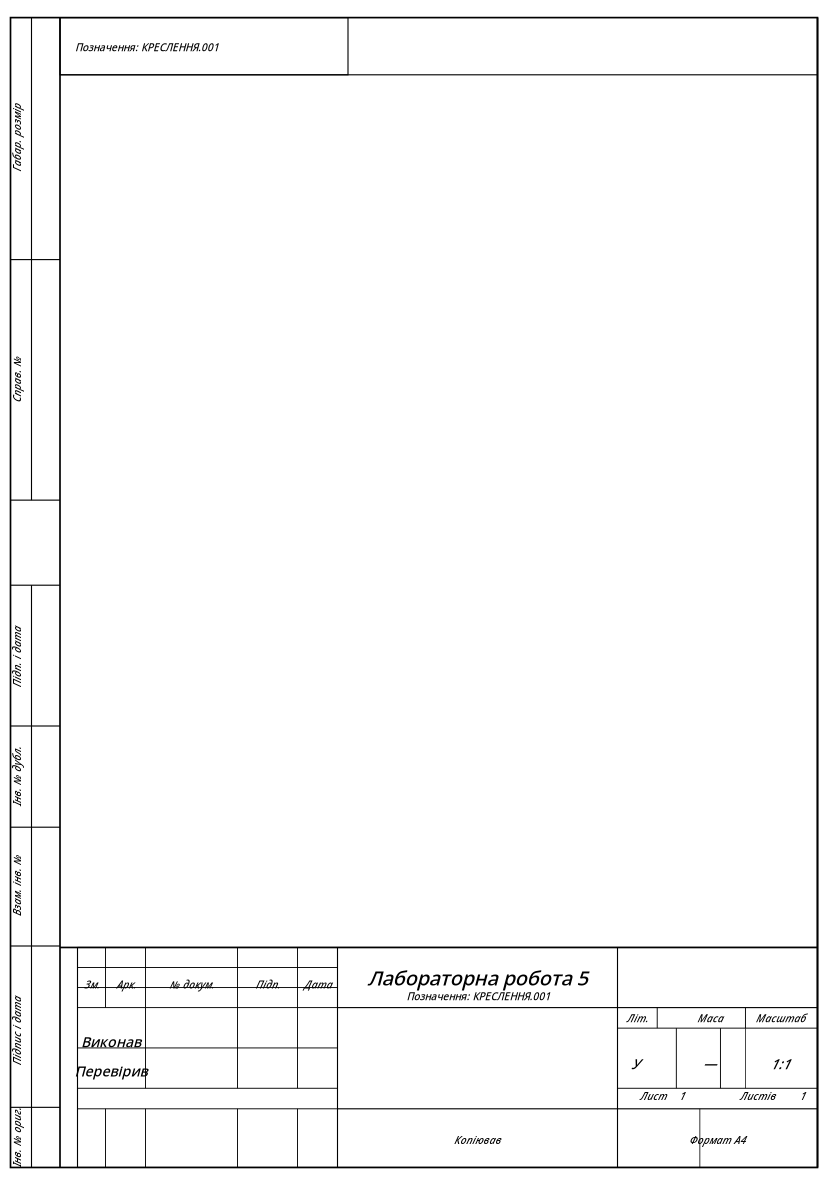
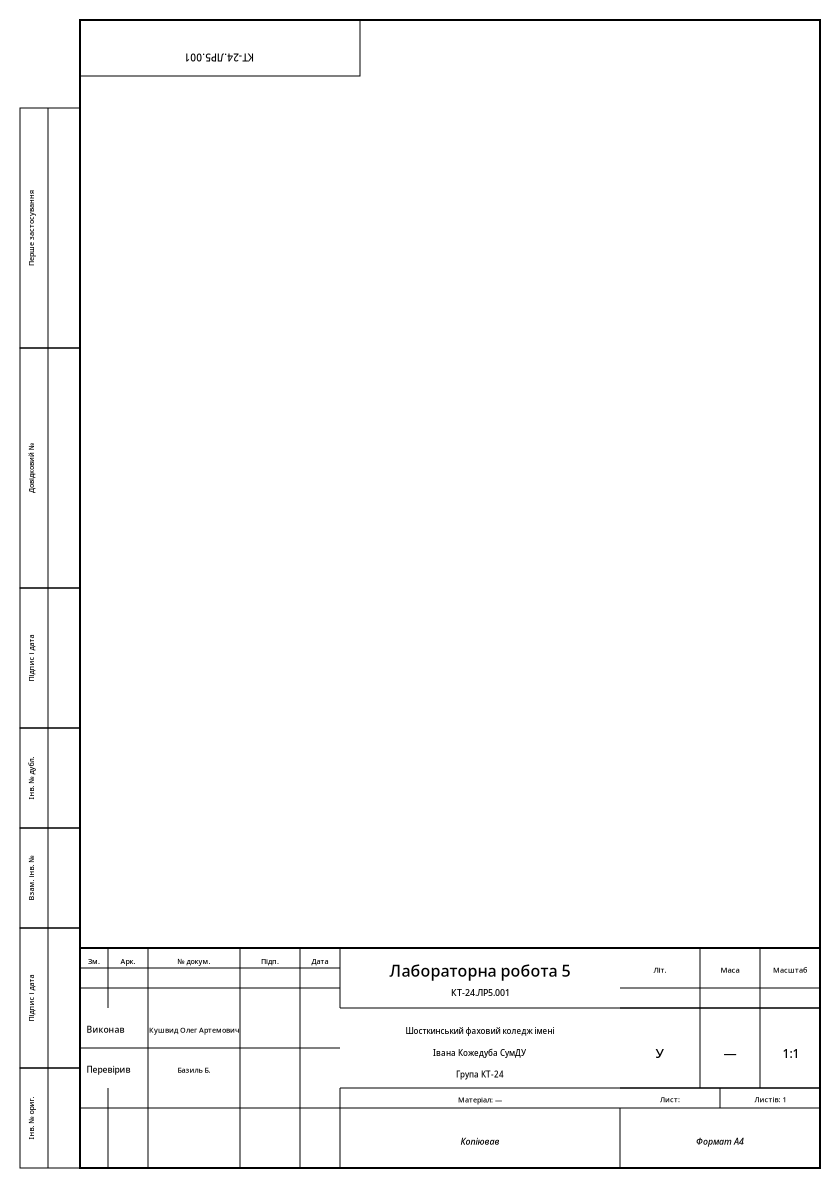
1
1

Changed region(s): [[0.0, 0.0, 0.9905, 0.9966]]

diff --git a/js/app.js b/js/app.js
@@ -13,7 +13,7 @@
     objectSnap:true, ortho:false, template:true, space:false, pan:null, viewPan:{x:0,y:0}, drag:null, selectionRect:null,
     history:[], redo:[], clipboard:[], ruler:null, rulerMode:'off', rulerVisible:true, freehandDraft:null, resize:null, rotateDrag:null,
     gost:{profile:'dstu-gost-ua',mainLine:.5,thinLine:.25,textHeight:5,textDefaultsVersion:2,arrowLength:3.5,dimensionArrowVersion:2,precision:1,lettering:'B-S',fontFamily:'GOST type B,Arial,sans-serif'},
-    title:{title:'Лабораторна робота 5',code:'КРЕСЛЕННЯ.001',material:'Матеріал не зазначено',scale:'1:1',sheet:'1',sheets:'1',company:'Навчальний кресленик',liter:'У',mass:'—',developer:'',checker:'',technical:'',normative:'',approved:''},
+    title:{title:'Лабораторна робота 5',code:'КТ-24.ЛР5.001',material:'—',scale:'1:1',sheet:'',sheets:'1',company:'Шосткинський фаховий коледж імені Івана Кожедуба СумДУ',group:'КТ-24',liter:'У',mass:'—',developer:'Кушвид Олег Артемович',checker:'Базиль Б.',technical:'',normative:'',approved:''},
     titleForm:'lab5-template', projectId:null, fileName:'Кресленик_1', dirty:false, assignmentDimensions:''
   };
   const visible = {geometry:true,dimensions:true,construction:true,template:true,reference:true};
@@ -45,13 +45,14 @@
   function resetViewPan(){state.viewPan={x:0,y:0};updateZoom();}
   function templateData(){ return state.title; }
   function renderTemplate(){
+    if(state.titleForm==='lab5-template'&&state.format!=='A4P'){state.format='A4P';if($('paperFormat'))$('paperFormat').value='A4P';}
     const d=dimensions(); svg.setAttribute('viewBox',`0 0 ${d.w} ${d.h}`);
     $('paperRect').setAttribute('width',d.w); $('paperRect').setAttribute('height',d.h);
     $('gridRect').setAttribute('width',d.w); $('gridRect').setAttribute('height',d.h);
     window.KompasTemplate.render(templateLayer,state.format,templateData(),state.titleForm||'user-template');
     if($('titleFormSelect'))$('titleFormSelect').value=state.titleForm||'user-template';
     if($('templateQuickSelect'))$('templateQuickSelect').value=state.titleForm||'user-template';
-    const templateDescriptions={'lab5-template':'Шаблон за фото лабораторної роботи №5: книжковий A4, ліві архівні поля, верхня комірка та нижній штамп. Центральне поле повністю порожнє — без моделі, розмірів і штриховки.','user-template':'Ваш початковий шаблон: бокові службові графи, верхня комірка й нижній основний напис.','gost-form1':'Форма 1 — перший аркуш графічного документа (креслення або схема).','form2':'Форма 2 — перший аркуш текстового конструкторського документа.','form2a':'Форма 2а — наступні аркуші графічних і текстових документів.','form2b-odd':'Форма 2б для текстового документа з додатковими графами ліворуч; варіант компонування для двостороннього копіювання.','form2b-even':'Форма 2б для текстового документа з додатковими графами праворуч; дзеркальний варіант компонування для двостороннього копіювання.','spec-form1':'Навчальна форма специфікації за традиційною ЄСКД / ГОСТ 2.106-96: перший аркуш із групами документації, деталей, стандартних виробів та матеріалів.','spec-form1a':'Навчальна форма специфікації за традиційною ЄСКД / ГОСТ 2.106-96: продовження таблиці на наступному аркуші.','blank':'Чистий аркуш зі стандартною рамкою без основного напису.'};
+    const templateDescriptions={'lab5-template':'Виправлений шаблон A4, книжкова орієнтація: рамка 20/5/5/5 мм, додаткова графа 70×14 мм, основний напис 185×55 мм. Поле деталі залишено порожнім.','user-template':'Ваш початковий шаблон: бокові службові графи, верхня комірка й нижній основний напис.','gost-form1':'Форма 1 — перший аркуш графічного документа (креслення або схема).','form2':'Форма 2 — перший аркуш текстового конструкторського документа.','form2a':'Форма 2а — наступні аркуші графічних і текстових документів.','form2b-odd':'Форма 2б для текстового документа з додатковими графами ліворуч; варіант компонування для двостороннього копіювання.','form2b-even':'Форма 2б для текстового документа з додатковими графами праворуч; дзеркальний варіант компонування для двостороннього копіювання.','spec-form1':'Навчальна форма специфікації за традиційною ЄСКД / ГОСТ 2.106-96: перший аркуш із групами документації, деталей, стандартних виробів та матеріалів.','spec-form1a':'Навчальна форма специфікації за традиційною ЄСКД / ГОСТ 2.106-96: продовження таблиці на наступному аркуші.','blank':'Чистий аркуш зі стандартною рамкою без основного напису.'};
     if($('templateDescription'))$('templateDescription').textContent=(state.titleForm==='user-template'&&d.h<280)?'На форматі A5 ваш розширений шаблон не вміщується; застосовано компактний варіант форми 1.':(templateDescriptions[state.titleForm]||templateDescriptions['user-template']);
     templateLayer.style.display=(state.template&&visible.template)?'':'none';
     renderSheetFrame(d);
@@ -1285,27 +1286,30 @@
       else if(o.type==='ellipse'){const pts=Array.from({length:64},(_,i)=>({x:(o.x+o.x2)/2+Math.cos(i*Math.PI/32)*Math.abs(o.x2-o.x)/2,y:(o.y+o.y2)/2+Math.sin(i*Math.PI/32)*Math.abs(o.y2-o.y)/2}));emitPath(pts,true,o.width);}
     });parts.push('SP0;');downloadBlob(new Blob([parts.join('')],{type:'application/vnd.hp-hpgl'}),`${state.fileName||'drawing'}.plt`);setMessage('HPGL/PLT экспортирован. Текст, размеры и штриховка в плоттерный файл не включены — экспортируются геометрические контуры.');
   }
-  function syncTitleInputs(){const t=state.title;$('titleField').value=t.title||'';$('codeField').value=t.code||'';$('materialField').value=t.material||'';$('scaleField').value=t.scale||'1:1';$('sheetField').value=t.sheet||'1';$('sheetsField').value=t.sheets||'1';$('companyField').value=t.company||'';$('literField').value=t.liter||'У';$('massField').value=t.mass||'—';$('developerField').value=t.developer||'';$('checkerField').value=t.checker||'';$('technicalField').value=t.technical||'';$('normativeField').value=t.normative||'';$('approvedField').value=t.approved||'';$('filenameField').value=state.fileName||'Кресленик_1';if($('titleFormSelect'))$('titleFormSelect').value=state.titleForm||'form1';}
-  function readTitleValues(){return{title:$('titleField').value,code:$('codeField').value,material:$('materialField').value,scale:$('scaleField').value,sheet:$('sheetField').value,sheets:$('sheetsField').value,company:$('companyField').value,liter:$('literField').value,mass:$('massField').value,developer:$('developerField').value,checker:$('checkerField').value,technical:$('technicalField').value,normative:$('normativeField').value,approved:$('approvedField').value};}
+  function syncTitleInputs(){const t=state.title;$('titleField').value=t.title||'';$('codeField').value=t.code||'';$('materialField').value=t.material||'';$('scaleField').value=t.scale||'1:1';$('sheetField').value=t.sheet??'';$('sheetsField').value=t.sheets||'1';$('companyField').value=t.company||'';$('groupField').value=t.group||'';$('literField').value=t.liter||'У';$('massField').value=t.mass||'—';$('developerField').value=t.developer||'';$('checkerField').value=t.checker||'';$('technicalField').value=t.technical||'';$('normativeField').value=t.normative||'';$('approvedField').value=t.approved||'';$('filenameField').value=state.fileName||'Кресленик_1';if($('titleFormSelect'))$('titleFormSelect').value=state.titleForm||'form1';}
+  function readTitleValues(){return{title:$('titleField').value,code:$('codeField').value,material:$('materialField').value,scale:$('scaleField').value,sheet:$('sheetField').value,sheets:$('sheetsField').value,company:$('companyField').value,group:$('groupField').value,liter:$('literField').value,mass:$('massField').value,developer:$('developerField').value,checker:$('checkerField').value,technical:$('technicalField').value,normative:$('normativeField').value,approved:$('approvedField').value};}
   function applyTitle(){commit();state.title=readTitleValues();state.fileName=$('filenameField').value.trim()||'Кресленик_1';renderTemplate();renderAll();setMessage('Основний напис оновлено');}
-  function setFormat(fmt){commit();state.format=fmt;renderTemplate();setZoom(Math.min(state.zoom,2.5));$('paperFormat').value=fmt;setMessage(`Формат листа: ${fmt}`);}
+  function setFormat(fmt){if(state.titleForm==='lab5-template'&&fmt!=='A4P'){$('paperFormat').value='A4P';setMessage('Шаблон лабораторної №5 закріплено за книжковим А4 (210×297 мм). Для іншого формату виберіть інший шаблон.');return;}commit();state.format=fmt;renderTemplate();setZoom(Math.min(state.zoom,2.5));$('paperFormat').value=fmt;setMessage(`Формат листа: ${fmt}`);}
   function fillNewDocumentChoices(){
     $('newDocFormat').innerHTML=$('paperFormat').innerHTML;$('newDocTemplate').innerHTML=$('titleFormSelect').innerHTML;
     $('newDocFormat').value=state.format||'A4P';$('newDocTemplate').value=state.titleForm||'user-template';$('newDocName').value=state.fileName||'Кресленик_1';$('newDocProfile').value=state.gost.profile==='eskd-study'?'eskd-study':'dstu-gost-ua';
     const match=String($('newDocFormat').value).match(/(P|L)$/);$('newDocOrientation').value=match?match[1]:'P';updateNewDocumentPreview();
   }
   function updateNewDocumentPreview(){
-    const fmt=$('newDocFormat').value||'A4P',template=$('newDocTemplate').value||'user-template',d=window.KompasTemplate.dimensions(fmt),v=$('newDocPreview');
+    let fmt=$('newDocFormat').value||'A4P';const template=$('newDocTemplate').value||'user-template';
+    const portraitOnly=template==='lab5-template';$('newDocFormat').disabled=portraitOnly;$('newDocOrientation').disabled=portraitOnly;
+    if(portraitOnly){fmt='A4P';$('newDocFormat').value='A4P';$('newDocOrientation').value='P';}
+    const d=window.KompasTemplate.dimensions(fmt),v=$('newDocPreview');
     v.setAttribute('viewBox',`0 0 ${d.w} ${d.h}`);v.innerHTML='';const bg=svgEl('rect',{x:0,y:0,width:d.w,height:d.h,fill:'#fff'});v.appendChild(bg);
     window.KompasTemplate.render(v,fmt,state.title,template);
-    const desc={'lab5-template':'Чистый шаблон лабораторной работы №5 по вашему фото. Большое центральное поле пустое, без модели.','user-template':'Ваш собственный шаблон із боковыми служебными графами и расширенной основной надписью.','gost-form1':'Форма 1 — первый лист графического документа.','form2':'Форма 2 — первый лист текстового документа.','form2a':'Форма 2а — следующий лист.','form2b-odd':'Форма 2б — дополнительные графы слева.','form2b-even':'Форма 2б — дополнительные графы справа.','spec-form1':'Спецификация — первый лист.','spec-form1a':'Спецификация — последующие листы.','blank':'Чистая рамка без штампа.'};$('newDocTemplateHint').textContent=desc[template]||'';
+    const desc={'lab5-template':'Исправленный книжный А4: рамка 20/5/5/5 мм, дополнительная графа 70×14 мм, штамп 185×55 мм. Поле детали оставлено пустым.','user-template':'Ваш собственный шаблон із боковыми служебными графами и расширенной основной надписью.','gost-form1':'Форма 1 — первый лист графического документа.','form2':'Форма 2 — первый лист текстового документа.','form2a':'Форма 2а — следующий лист.','form2b-odd':'Форма 2б — дополнительные графы слева.','form2b-even':'Форма 2б — дополнительные графы справа.','spec-form1':'Спецификация — первый лист.','spec-form1a':'Спецификация — последующие листы.','blank':'Чистая рамка без штампа.'};$('newDocTemplateHint').textContent=desc[template]||'';
   }
   function newDocument(){fillNewDocumentChoices();$('newDocModal').classList.remove('hidden');}
   function createNewDocument(){
     if((state.objects.length||state.dirty)&&!confirm('Создать новый чертёж? Несохранённые изменения будут потеряны.'))return;
     const fmt=$('newDocFormat').value||'A4P',template=$('newDocTemplate').value||'user-template',name=$('newDocName').value.trim()||'Кресленик_1',profile=$('newDocProfile').value;
     state.objects=[];state.selectedIds=[];state.assignmentDimensions='';$('assignmentDimensions').value='';state.ruler=null;state.rulerMode='off';state.rulerVisible=true;state.viewPan={x:0,y:0};state.projectId=null;state.titleForm=template;$('rulerMode').value='off';$('rulerVisible').checked=true;state.format=fmt;state.fileName=name;$('paperFormat').value=fmt;$('titleFormSelect').value=template;$('templateQuickSelect').value=template;$('filenameField').value=name;
-    state.title={title:template==='lab5-template'?'Лабораторна робота 5':'Найменування деталі',code:'КРЕСЛЕННЯ.001',material:'Матеріал не зазначено',scale:'1:1',sheet:'1',sheets:'1',company:'Навчальний кресленик',liter:'У',mass:'—',developer:'',checker:'',technical:'',normative:'',approved:''};
+    state.title={title:template==='lab5-template'?'Лабораторна робота 5':'Найменування деталі',code:template==='lab5-template'?'КТ-24.ЛР5.001':'КРЕСЛЕННЯ.001',material:'—',scale:'1:1',sheet:'',sheets:'1',company:'Шосткинський фаховий коледж імені Івана Кожедуба СумДУ',group:'КТ-24',liter:'У',mass:'—',developer:'Кушвид Олег Артемович',checker:'Базиль Б.',technical:'',normative:'',approved:''};
     state.gost={profile,mainLine:.5,thinLine:.25,textHeight:5,textDefaultsVersion:2,arrowLength:3.5,dimensionArrowVersion:2,precision:1,lettering:'B-S',fontFamily:'GOST type B,Arial,sans-serif'};applyGostControls();
     state.history=[];state.redo=[];updateHistoryButtons();state.grid=$('newDocGrid').checked;$('gridToggle').checked=state.grid;const gp=svg.querySelector('#gridPattern');if(gp){const step=gridStep();gp.setAttribute('width',step);gp.setAttribute('height',step);gp.querySelector('path').setAttribute('d',`M ${step} 0 L 0 0 0 ${step}`);}$('gridRect').setAttribute('visibility',state.grid?'visible':'hidden');
     syncTitleInputs();renderTemplate();renderAll();state.dirty=false;$('saveState').textContent='Новий кресленик';$('newDocModal').classList.add('hidden');resetViewPan();const d=dimensions(),aw=drawingArea.clientWidth-90,ah=drawingArea.clientHeight-90;setZoom(clamp(Math.min(aw/d.w,ah/d.h),.25,6));setMessage(`Створено ${name}: ${fmt} · ${template}`);
@@ -1328,7 +1332,7 @@
   function pasteClipboard(){if(!state.clipboard.length){setMessage('Буфер обмена пуст');return;}commit();const clones=state.clipboard.map(o=>({...deep(o),id:newId()}));clones.forEach(o=>translateObject(o,5,5));state.objects.push(...clones);state.selectedIds=clones.map(o=>o.id);renderAll();setMessage(`Вставлено объектов: ${clones.length}`);}
   document.querySelectorAll('[data-tool]').forEach(b=>b.addEventListener('click',()=>selectTool(b.dataset.tool)));
   document.querySelectorAll('[data-action]').forEach(b=>b.addEventListener('click',()=>applyAction(b.dataset.action)));
-  $('newBtn').addEventListener('click',newDocument);$('createNewDocBtn').addEventListener('click',createNewDocument);$('closeNewDocModal').addEventListener('click',()=>$('newDocModal').classList.add('hidden'));$('cancelNewDocBtn').addEventListener('click',()=>$('newDocModal').classList.add('hidden'));$('newDocModal').addEventListener('click',e=>{if(e.target===$('newDocModal'))$('newDocModal').classList.add('hidden');});$('newDocTemplate').addEventListener('change',updateNewDocumentPreview);$('newDocFormat').addEventListener('change',()=>{const v=$('newDocFormat').value,m=v.match(/(P|L)$/);if(m)$('newDocOrientation').value=m[1];updateNewDocumentPreview();});$('newDocOrientation').addEventListener('change',()=>{const v=$('newDocFormat').value;if(/^(A[0-5])[PL]$/.test(v)){const base=v.slice(0,2);$('newDocFormat').value=base+$('newDocOrientation').value;updateNewDocumentPreview();}});$('coordinateApplyBtn').addEventListener('click',applyNumericCoordinate);$('restoreAutosaveBtn').addEventListener('click',restoreAutosave);$('saveBtn').addEventListener('click',()=>saveProject());$('saveToLibraryBtn').addEventListener('click',()=>saveProject());$('saveAsLibraryBtn').addEventListener('click',()=>saveProject({saveAs:true}));$('saveJsonBtn').addEventListener('click',()=>exportProjectJson());$('openBtn').addEventListener('click',openProjectLibrary);$('openLibraryBtn').addEventListener('click',openProjectLibrary);$('loadJsonBtn').addEventListener('click',()=>$('fileInput').click());$('importJsonFromLibraryBtn').addEventListener('click',()=>$('fileInput').click());$('fileInput').addEventListener('change',e=>{if(e.target.files[0])loadProject(e.target.files[0]);e.target.value='';});$('closeFilesModal').addEventListener('click',()=>$('filesModal').classList.add('hidden'));$('filesModal').addEventListener('click',e=>{if(e.target===$('filesModal'))$('filesModal').classList.add('hidden');});$('fileSearch').addEventListener('input',renderProjectLibrary);$('newFromLibraryBtn').addEventListener('click',()=>{$('filesModal').classList.add('hidden');newDocument();});function changeTitleTemplate(value){if(!value)return;commit();state.titleForm=value;renderTemplate();setMessage('Шаблон аркуша змінено; геометрію креслення збережено');}
+  $('newBtn').addEventListener('click',newDocument);$('createNewDocBtn').addEventListener('click',createNewDocument);$('closeNewDocModal').addEventListener('click',()=>$('newDocModal').classList.add('hidden'));$('cancelNewDocBtn').addEventListener('click',()=>$('newDocModal').classList.add('hidden'));$('newDocModal').addEventListener('click',e=>{if(e.target===$('newDocModal'))$('newDocModal').classList.add('hidden');});$('newDocTemplate').addEventListener('change',updateNewDocumentPreview);$('newDocFormat').addEventListener('change',()=>{const v=$('newDocFormat').value,m=v.match(/(P|L)$/);if(m)$('newDocOrientation').value=m[1];updateNewDocumentPreview();});$('newDocOrientation').addEventListener('change',()=>{const v=$('newDocFormat').value;if(/^(A[0-5])[PL]$/.test(v)){const base=v.slice(0,2);$('newDocFormat').value=base+$('newDocOrientation').value;updateNewDocumentPreview();}});$('coordinateApplyBtn').addEventListener('click',applyNumericCoordinate);$('restoreAutosaveBtn').addEventListener('click',restoreAutosave);$('saveBtn').addEventListener('click',()=>saveProject());$('saveToLibraryBtn').addEventListener('click',()=>saveProject());$('saveAsLibraryBtn').addEventListener('click',()=>saveProject({saveAs:true}));$('saveJsonBtn').addEventListener('click',()=>exportProjectJson());$('openBtn').addEventListener('click',openProjectLibrary);$('openLibraryBtn').addEventListener('click',openProjectLibrary);$('loadJsonBtn').addEventListener('click',()=>$('fileInput').click());$('importJsonFromLibraryBtn').addEventListener('click',()=>$('fileInput').click());$('fileInput').addEventListener('change',e=>{if(e.target.files[0])loadProject(e.target.files[0]);e.target.value='';});$('closeFilesModal').addEventListener('click',()=>$('filesModal').classList.add('hidden'));$('filesModal').addEventListener('click',e=>{if(e.target===$('filesModal'))$('filesModal').classList.add('hidden');});$('fileSearch').addEventListener('input',renderProjectLibrary);$('newFromLibraryBtn').addEventListener('click',()=>{$('filesModal').classList.add('hidden');newDocument();});function changeTitleTemplate(value){if(!value)return;commit();state.titleForm=value;if(value==='lab5-template'&&state.format!=='A4P'){state.format='A4P';$('paperFormat').value='A4P';setZoom(Math.min(state.zoom,2.5));}renderTemplate();setMessage(value==='lab5-template'?'Застосовано книжковий А4 для лабораторної №5; геометрію креслення збережено':'Шаблон аркуша змінено; геометрію креслення збережено');}
   $('titleFormSelect').addEventListener('change',e=>changeTitleTemplate(e.target.value));
   $('templateQuickSelect').addEventListener('change',e=>changeTitleTemplate(e.target.value));
   $('mirrorAxisMode').addEventListener('change',e=>$('mirrorCustomPoints').classList.toggle('hidden',e.target.value!=='custom'));$('closeMirrorModal').addEventListener('click',closeMirrorDialog);$('cancelMirrorBtn').addEventListener('click',closeMirrorDialog);$('applyMirrorBtn').addEventListener('click',applyMirrorDialog);$('mirrorModal').addEventListener('click',e=>{if(e.target===$('mirrorModal'))closeMirrorDialog();});
@@ -1338,7 +1342,7 @@
   $('gridToggle').addEventListener('change',e=>{state.grid=e.target.checked;$('gridRect').setAttribute('visibility',state.grid?'visible':'hidden');});$('gridStep').addEventListener('change',()=>{const pattern=svg.querySelector('#gridPattern');const step=gridStep();pattern.setAttribute('width',step);pattern.setAttribute('height',step);pattern.querySelector('path').setAttribute('d',`M ${step} 0 L 0 0 0 ${step}`);});$('snapToggle').addEventListener('change',e=>state.snap=e.target.checked);$('objectSnapToggle').addEventListener('change',e=>state.objectSnap=e.target.checked);$('orthoToggle').addEventListener('change',e=>{state.ortho=e.target.checked;$('orthoStatus').textContent=state.ortho?'Вкл.':'Выкл.';});
   $('templateToggle').addEventListener('change',e=>{const before=snapshot();state.template=e.target.checked;commit(before);renderTemplate();});$('geometryVisible').addEventListener('change',e=>{const before=snapshot();visible.geometry=e.target.checked;commit(before);renderAll();});$('dimensionsVisible').addEventListener('change',e=>{const before=snapshot();visible.dimensions=e.target.checked;commit(before);renderAll();});$('constructionVisible').addEventListener('change',e=>{const before=snapshot();visible.construction=e.target.checked;commit(before);renderAll();});$('templateVisible').addEventListener('change',e=>{const before=snapshot();visible.template=e.target.checked;commit(before);renderTemplate();});
   $('paperFormat').addEventListener('change',e=>setFormat(e.target.value));$('fitBtn').addEventListener('click',()=>{resetViewPan();const d=dimensions(),w=drawingArea.clientWidth-70,h=drawingArea.clientHeight-70;setZoom(Math.min(w/d.w,h/d.h));});$('zoomIn').addEventListener('click',()=>setZoom(state.zoom*1.15));$('zoomOut').addEventListener('click',()=>setZoom(state.zoom/1.15));
-  ['titleField','codeField','materialField','scaleField','sheetField','sheetsField','companyField','literField','massField','developerField','checkerField','technicalField','normativeField','approvedField','filenameField'].forEach(id=>$(id).addEventListener('input',()=>{state.dirty=true;$('saveState').textContent='Є незбережені зміни';}));
+  ['titleField','codeField','materialField','scaleField','sheetField','sheetsField','companyField','groupField','literField','massField','developerField','checkerField','technicalField','normativeField','approvedField','filenameField'].forEach(id=>$(id).addEventListener('input',()=>{state.dirty=true;$('saveState').textContent='Є незбережені зміни';}));
   $('applyTitleBtn').addEventListener('click',applyTitle);$('svgBtn').addEventListener('click',exportSvg);$('dxfBtn').addEventListener('click',exportDxf);$('exportDxfBtn').addEventListener('click',exportDxf);$('importDxfBtn').addEventListener('click',()=>$('dxfInput').click());$('dxfInput').addEventListener('change',e=>{if(e.target.files[0])importDxf(e.target.files[0]);e.target.value='';});$('svgInput').addEventListener('change',e=>{if(e.target.files[0])importSvg(e.target.files[0]);e.target.value='';});$('csvInput').addEventListener('change',e=>{if(e.target.files[0])importCsv(e.target.files[0]);e.target.value='';});$('importSvgBtn').addEventListener('click',()=>$('svgInput').click());$('importCsvBtn').addEventListener('click',()=>$('csvInput').click());$('exportCsvBtn').addEventListener('click',exportCsv);$('importHpglBtn').addEventListener('click',()=>$('hpglInput').click());$('hpglInput').addEventListener('change',e=>{if(e.target.files[0])importHpgl(e.target.files[0]);e.target.value='';});$('exportHpglBtn').addEventListener('click',exportHpgl);$('pngBtn').addEventListener('click',exportPng);$('exportJpgBtn').addEventListener('click',exportJpg);$('exportWebpBtn').addEventListener('click',exportWebp);$('exportBmpBtn').addEventListener('click',exportBmp);$('printBtn').addEventListener('click',printDocument);$('printNowBtn').addEventListener('click',doPrintDocument);$('printCalibrationBtn').addEventListener('click',printCalibrationSheet);$('printPreflightBtn').addEventListener('click',()=>{$('printModal').classList.add('hidden');checkGost();});$('closePrintModal').addEventListener('click',()=>$('printModal').classList.add('hidden'));$('printModal').addEventListener('click',e=>{if(e.target===$('printModal'))$('printModal').classList.add('hidden');});$('kompasBridgeBtn').addEventListener('click',()=>$('kompasBridgeModal').classList.remove('hidden'));$('closeKompasBridgeBtn').addEventListener('click',()=>$('kompasBridgeModal').classList.add('hidden'));$('closeBridgeBottomBtn').addEventListener('click',()=>$('kompasBridgeModal').classList.add('hidden'));$('kompasBridgeModal').addEventListener('click',e=>{if(e.target===$('kompasBridgeModal'))$('kompasBridgeModal').classList.add('hidden');});$('bridgeExportDxfBtn').addEventListener('click',()=>{exportDxf();$('kompasBridgeModal').classList.add('hidden');});$('addTextBtn').addEventListener('click',()=>selectTool('text'));
   $('applyObjectGeometryBtn').addEventListener('click',applySelectedGeometry);
   $('objectColor').addEventListener('change',e=>{const o=getSelected()[0];if(o){commit();getSelected().forEach(x=>x.color=e.target.value);renderAll();}});

diff --git a/js/template.js b/js/template.js
@@ -10,7 +10,7 @@
   function txt(x,y,value,size=2.25,anchor='start',rotate=0,opts={}){const h=Math.max(1.8,Number(size)||2.25);const transforms=(rotate||opts.slanted)?`translate(${x} ${y}) ${rotate?`rotate(${rotate}) `:''}${opts.slanted?'skewX(-15) ':''}translate(${-x} ${-y})`:'';const tr=transforms?` transform="${transforms}"`:'';return `<text x="${x}" y="${y}" font-family="${opts.fontFamily||'GOST type B,Arial,sans-serif'}" font-size="${h}" fill="${opts.color||TEXT}" text-anchor="${anchor}"${tr}${opts.weight?' font-weight="'+opts.weight+'"':''}${opts.italic?' font-style="italic"':''}>${esc(value)}</text>`;}
   function cell(x1,x2,y,value,size=1.55){return txt((x1+x2)/2,y,value,size,'middle');}
   function vlabel(x,y1,y2,value,size=1.65){return txt(x,(y1+y2)/2,value,size,'middle',-90);}
-  function addAuxFields(s, yTop=5, yBottom=292) {
+  function addAuxFields(s, yTop=5, yBottom=292, thinWidth=.25) {
     // Additional archival fields in the left 20 mm margin; labels are Ukrainian.
     const x1=5,x2=12,x3=20;
     const bands=[
@@ -22,17 +22,17 @@
       [yBottom-205,yBottom-145,'Довідковий №'],
       [yBottom-265,yBottom-205,'Перше застосування']
     ];
-    bands.forEach(([a,b,label])=>{s+=rect(x1,a,x3-x1,b-a,.20);s+=line(x2,a,x2,b,.18);s+=vlabel((x1+x2)/2,a,b,label,1.55);});
+    bands.forEach(([a,b,label])=>{s+=rect(x1,a,x3-x1,b-a,thinWidth);s+=line(x2,a,x2,b,thinWidth);s+=vlabel((x1+x2)/2,a,b,label,1.55);});
     return s;
   }
   function form1(w,h,d) {
     let s='';
     s+=rect(0,0,w,h,.12,'#000000');
     // A4 portrait print frame: 20 mm left margin, 5 mm elsewhere.
-    s+=rect(20,5,185,287,.32);
-    s=addAuxFields(s,5,292);
+    s+=rect(20,5,185,287,.5);
+    s=addAuxFields(s,5,292,.25);
     // Upper document-index cell shown in the user's reference sheet.
-    s+=rect(20,5,70,14,.22);s+=line(20,19,90,19,.18);
+    s+=rect(20,5,70,14,.25);s+=line(20,19,90,19,.18);
     // Form 1: main inscription is 185 x 55 mm, in the lower-right corner.
     const x0=20,x1=27,x2=37,x3=60,x4=75,x5=85,x6=155,x7=205;
     const y0=237,y1=242,y2=247,y3=252,y4=257,y5=262,y6=267,y7=272,y8=277,y9=282,y10=287,y11=292;
@@ -117,7 +117,7 @@
     s+=line(X[5],by+15,X[9],by+15,.18);s+=line(X[5],by+37,X[8],by+37,.18);s+=line(X[5],by+46,X[9],by+46,.18);
     s+=txt(bx+67,by+5.5,'Найменування виробу / документа',1.45);
     s+=txt(bx+67,by+24,d.title||'Найменування деталі',2.15);
-    s+=txt(bx+67,by+33,'Позначення: '+(d.code||'КРЕСЛЕННЯ.001'),1.45);
+    s+=txt(bx+67,by+33,(d.code||'КРЕСЛЕННЯ.001'),1.45);
     s+=txt(bx+67,by+44,'Матеріал: '+(d.material||'не зазначено'),1.4);
     // Litera, mass, scale and sheet numbering.
     [X[7],X[8]].forEach(x=>s+=line(x,by,x,by+37,.18));
@@ -125,7 +125,7 @@
     s+=txt(X[6]+2,by+7,'Літ.',1.25);s+=txt(X[7]+2,by+7,'Маса',1.25);s+=txt(X[8]+2,by+7,'Масштаб',1.2);
     s+=cell(X[6],X[7],by+20,d.liter||'У',1.8)+cell(X[7],X[8],by+20,d.mass||'—',1.7)+cell(X[8],X[9],by+20,d.scale||'1:1',1.8);
     s+=txt(X[6]+2,by+34,'Арк.',1.2);s+=txt(X[7]+7,by+34,'Аркушів',1.2);
-    s+=cell(X[6],X[7]+5,by+45,d.sheet||'1',1.5)+cell(X[7]+5,X[9],by+45,d.sheets||'1',1.5);
+    s+=cell(X[6],X[7]+5,by+45,d.sheet||'',1.5)+cell(X[7]+5,X[9],by+45,d.sheets||'1',1.5);
     s+=txt(bx+92,by+54,'Копіював',1.4,'middle');s+=txt(bx+183,by+54,'Формат '+format,1.4,'end');
     return s;
   }
@@ -139,7 +139,7 @@
     s+=cell(X[0],X[1],by+4,'Зм.',1.2)+cell(X[1],X[2],by+4,'Арк.',1.1)+cell(X[2],X[3],by+4,'№ докум.',1.1)+cell(X[3],X[4],by+4,'Підпис',1.1)+cell(X[4],X[5],by+4,'Дата',1.1);
     [['Розробив','developer'],['Перевірив','checker'],['Т. контр.','technical'],['Н. контр.','normative'],['Затвердив','approved']].forEach((r,i)=>{let y=by+16+i*9;s+=txt(bx+1,y,r[0],1.35);if(d[r[1]])s+=txt(bx+18,y,d[r[1]],1.3);});
     s+=line(X[5],by+19,X[9],by+19,.18);s+=line(X[5],by+37,X[9],by+37,.18);s+=line(X[5],by+46,X[9],by+46,.18);
-    s+=txt(bx+67,by+7,'Найменування текстового документа',1.45);s+=txt(bx+67,by+29,d.title||'Пояснювальна записка',2.0);s+=txt(bx+67,by+42,'Позначення: '+(d.code||'ДОКУМЕНТ.001'),1.4);
+    s+=txt(bx+67,by+7,'Найменування текстового документа',1.45);s+=txt(bx+67,by+29,d.title||'Пояснювальна записка',2.0);s+=txt(bx+67,by+42,(d.code||'ДОКУМЕНТ.001'),1.4);
     s+=line(X[7],by+19,X[7],by+46,.18);s+=line(X[8],by+19,X[8],by+46,.18);
     s+=txt(X[6]+2,by+25,'Літ.',1.2);s+=txt(X[7]+2,by+25,'Арк.',1.2);s+=txt(X[8]+2,by+25,'Аркушів',1.2);
     s+=cell(X[6],X[7],by+34,d.liter||'У',1.5)+cell(X[7],X[8],by+34,d.sheet||'1',1.5)+cell(X[8],X[9],by+34,d.sheets||'1',1.5);
@@ -176,92 +176,92 @@
     return s;
   }
 
-  // Clean laboratory sheet reconstructed from the user's mobile screenshot.
-  // The central drawing field is intentionally empty: no part geometry, dimensions or hatching.
+  // Laboratory A4 portrait sheet rebuilt directly in millimetres.
+  // Frame: 20 mm left, 5 mm top/right/bottom. Main title block: 185 x 55 mm.
+  // Additional document designation field: 70 x 14 mm, with text rotated 180 degrees.
   function lab5Template(w,h,d={}){
-    const scale=Math.min(w/210,h/297);
-    const ox=(w-210*scale)/2, oy=(h-297*scale)/2;
-    const X=px=>(px-8)*.375;
-    const Y=py=>(py-272)*(297/810);
-    const ln=(x1,y1,x2,y2,sw=.24)=>line(X(x1),Y(y1),X(x2),Y(y2),sw,'#000000');
-    const rc=(x1,y1,x2,y2,sw=.3)=>rect(X(x1),Y(y1),X(x2)-X(x1),Y(y2)-Y(y1),sw,'#000000');
-    const labTextHeight=size=>size<=2.5?2.5:size<=3.5?3.5:size<=5?5:size<=7?7:size;
-    const tx=(x,y,value,size=1.7,anchor='start',rotate=0,opts={})=>txt(X(x),Y(y),value,labTextHeight(size),anchor,rotate,{...opts,slanted:true,fontFamily:'GOST type B,Arial,sans-serif',color:'#000000'});
-    let s=`<g transform="translate(${ox} ${oy}) scale(${scale})">`;
-    // Sheet frame and archival columns. The title block itself follows the 185 x 55 mm
-    // envelope of GOST 2.104 Form 1 and is aligned to the right sheet border.
-    s+=rc(15,284,553,1068,.42);
-    s+=ln(29,284,29,613,.28)+ln(48,284,48,1068,.42)+ln(553,284,553,1068,.42);
-    s+=ln(15,449,48,449,.28)+ln(15,613,48,613,.28);
-    s+=ln(15,671,48,671,.28)+ln(15,767,48,767,.28)+ln(15,836,48,836,.28)+ln(15,917,48,917,.28)+ln(15,1027,48,1027,.28);
-    s+=ln(29,671,29,1068,.28);
-    s+=rc(48,284,240,323,.28);
-    s+=tx(58,307,'Позначення: '+(d.code||'КРЕСЛЕННЯ.001'),2.5,'start');
-    s+=ln(48,323,553,323,.28);
-    s+=ln(48,918,553,918,.42);
+    // This custom education template is designed only for portrait A4.
+    if(Math.abs(w-210)>.01 || Math.abs(h-297)>.01){
+      return eskdForm1(w,h,d,'A4');
+    }
+    let s='';
+    // Standard drawing frame and left-side archival fields in the 20 mm binding margin.
+    s+=rect(20,5,185,287,.5);
+    s=addAuxFields(s,5,292,.25);
 
-    // Exact title-block geometry: 185 mm wide, 55 mm high.
-    const x0=59.667, x1=78.334, x2=105.001, x3=166.334,
-          x4=206.334, x5=233.001, x6=419.668, x7=553;
-    const y0=918, y1=959, y2=973, y3=1014, y4=1028, y5=1068;
-    // Main title field and central/right split.
-    s+=ln(x0,y0,x0,y5,.28)+ln(x5,y0,x5,y5,.28)+ln(x6,y0,x6,y5,.28);
-    s+=ln(x0,y0,x7,y0,.28)+ln(x0,y5,x7,y5,.28);
-    s+=ln(x5,y1,x7,y1,.28)+ln(x5,y4,x7,y4,.28);
-    // Revision/signature grid at the upper-left of the stamp.
-    [x1,x2,x3,x4,x5].forEach(x=>s+=ln(x,y0,x,y1,.23));
-    [y0+13.667,y0+27.333].forEach(y=>s+=ln(x0,y,x5,y,.23));
-    // Student and teacher rows: merge the first two narrow columns so labels fit
-    // without crossing a vertical border. Remaining columns retain their divisions.
-    s+=ln(x2,y1,x2,y3,.23)+ln(x3,y1,x3,y3,.23)+ln(x4,y1,x4,y3,.23)+ln(x5,y1,x5,y3,.23);
-    s+=ln(x0,y1,x5,y1,.23)+ln(x0,(y1+y3)/2,x5,(y1+y3)/2,.23)+ln(x0,y3,x5,y3,.23);
-    // Lower-left cells and the lower central field.
-    [x1,x2,x3,x4,x5].forEach(x=>s+=ln(x,y4,x,y5,.23));
-    s+=ln(x0,y4,x5,y4,.23);
-    // Right-hand title-block cells, preserving the familiar Lit./mass/scale layout.
-    const rx=x6, rw=x7-x6, k=rw/136;
-    const r=(v)=>rx+v*k;
-    s+=ln(rx,y2,x7,y2,.23)+ln(rx,y3,x7,y3,.23);
-    s+=ln(r(27),y1,r(27),y2,.23)+ln(r(87),y1,r(87),y2,.23);
-    s+=ln(r(40),y2,r(40),y3,.23)+ln(r(70),y2,r(70),y3,.23)+ln(r(87),y2,r(87),y3,.18);
-    s+=ln(r(0),y4,r(0),y5,.2)+ln(r(56),y4,r(56),y5,.2);
-    // Archival labels at the left side of the sheet.
-    s+=tx(22,366,'Габар. розмір',1.65,'middle',-90,{italic:true});
-    s+=tx(22,531,'Справ. №',1.65,'middle',-90,{italic:true});
-    s+=tx(22,720,'Підп. і дата',1.55,'middle',-90,{italic:true});
-    s+=tx(22,802,'Інв. № дубл.',1.55,'middle',-90,{italic:true});
-    s+=tx(22,876,'Взам. інв. №',1.55,'middle',-90,{italic:true});
-    s+=tx(22,975,'Підпис і дата',1.55,'middle',-90,{italic:true});
-    s+=tx(22,1048,'Інв. № ориг.',1.55,'middle',-90,{italic:true});
-    // Revision table headings.
-    s+=tx((x0+x1)/2,946,'Зм.',2.5,'middle',0,{italic:true});
-    s+=tx((x1+x2)/2,946,'Арк.',2.5,'middle',0,{italic:true});
-    s+=tx((x2+x3)/2,946,'№ докум.',2.5,'middle',0,{italic:true});
-    s+=tx((x3+x4)/2,946,'Підп.',2.5,'middle',0,{italic:true});
-    s+=tx((x4+x5)/2,946,'Дата',2.5,'middle',0,{italic:true});
-    // Role labels are centered in the merged 17 mm-wide cell.
-    s+=tx((x0+x2)/2,986,'Виконав',3.5,'middle',0,{italic:false});
-    s+=tx((x0+x2)/2,1006,'Перевірив',3.5,'middle',0,{italic:false});
-    if(d.developer)s+=tx((x2+x3)/2,986,d.developer,2.5,'middle',0,{italic:false});
-    if(d.checker)s+=tx((x2+x3)/2,1006,d.checker,2.5,'middle',0,{italic:false});
-    // Main title and right-hand information fields.
-    const title=(d.title&&d.title!=='Найменування деталі')?d.title:'Лабораторна робота 5';
-    s+=tx((x5+x6)/2,944,title,5,'middle',0,{italic:false});
-    s+=tx((x5+x6)/2,954,'Позначення: '+(d.code||'КРЕСЛЕННЯ.001'),2.5,'middle',0,{italic:false});
-    s+=tx(r(13),969,'Літ.',2.5,'middle',0,{italic:true});
-    s+=tx(r(63),969,'Маса',2.5,'middle',0,{italic:true});
-    s+=tx(r(111),969,'Масштаб',2.5,'middle',0,{italic:true});
-    s+=tx(r(13),1001,d.liter||'У',3.5,'middle',0,{italic:true});
-    s+=tx(r(63),1001,d.mass||'—',3.5,'middle',0,{italic:true});
-    s+=tx(r(111),1001,d.scale||'1:1',3.5,'middle',0,{italic:true});
-    s+=tx(r(24),1022,'Лист',2.5,'middle',0,{italic:true});
-    s+=tx(r(95),1022,'Листів',2.5,'middle',0,{italic:true});
-    s+=tx(r(44),1022,d.sheet||'1',2.5,'middle',0,{italic:true});
-    s+=tx(r(126),1022,d.sheets||'1',2.5,'middle',0,{italic:true});
-    // Bottom inscription is moved inside the bottom row rather than below the sheet frame.
-    s+=tx((x5+x6)/2,1052,'Копіював',2.5,'middle',0,{italic:true});
-    s+=tx((x6+x7)/2,1052,'Формат  А4',2.5,'middle',0,{italic:true});
-    s+='</g>';
+    // Additional document designation field (70 x 14 mm) at the upper-left of the frame.
+    s+=rect(20,5,70,14,.25);
+    s+=txt(55,13.4,d.code||'КТ-24.ЛР5.001',2.5,'middle',180,{fontFamily:'GOST type B,Arial,sans-serif'});
+
+    // Main title block — exactly 185 x 55 mm, positioned at x=20, y=237.
+    const x0=20,x1=27,x2=37,x3=60,x4=75,x5=85,x6=155,x7=205;
+    const y0=237,y1=252,y2=262,y3=272,y4=277,y5=292;
+    s+=rect(x0,y0,185,55,.5);
+
+    // Left: revision register (65 x 15 mm).
+    [x1,x2,x3,x4,x5].forEach(x=>s+=line(x,y0,x,y1,.25));
+    [y0+5,y0+10].forEach(y=>s+=line(x0,y,x5,y,.25));
+    s+=cell(x0,x1,y0+4,'Зм.',1.35);
+    s+=cell(x1,x2,y0+4,'Арк.',1.35);
+    s+=cell(x2,x3,y0+4,'№ докум.',1.35);
+    s+=cell(x3,x4,y0+4,'Підп.',1.35);
+    s+=cell(x4,x5,y0+4,'Дата',1.35);
+
+    // Left: two educational sign-off rows. The name cell is wide enough for a full name.
+    s+=line(x0,y2,x5,y2,.25);
+    [x2,x3,x4].forEach(x=>s+=line(x,y1,x,y3,.25));
+    s+=txt(x0+1.6,y1+6.2,'Виконав',2.15);
+    s+=txt(x0+1.6,y2+6.2,'Перевірив',2.15);
+    if(d.developer)s+=txt((x2+x3)/2,y1+6.2,d.developer,1.8,'middle');
+    if(d.checker)s+=txt((x2+x3)/2,y2+6.2,d.checker,1.8,'middle');
+
+    // Left: lower revision/signature cells retained as blank fields.
+    [x1,x2,x3,x4,x5].forEach(x=>s+=line(x,y3,x,y5,.25));
+    s+=line(x0,y4,x5,y4,.25);
+
+    // Centre: document name and designation, plus institution, group and material.
+    s+=line(x5,y1,x7,y1,.25);
+    s+=line(x5,y3,x7,y3,.25);
+    s+=line(x5,y4,x7,y4,.25);
+    s+=txt((x5+x6)/2,y0+7.2,d.title||'Лабораторна робота 5',4.0,'middle');
+    s+=txt((x5+x6)/2,y0+12.0,d.code||'КТ-24.ЛР5.001',2.2,'middle');
+
+    // Institution is split across two centered lines; group is a separate third line.
+    const company=String(d.company||'Шосткинський фаховий коледж імені Івана Кожедуба СумДУ').trim();
+    const words=company.split(/\s+/);let lineA='',lineB='';
+    for(const word of words){
+      if((lineA+' '+word).trim().length<=38)lineA=(lineA+' '+word).trim();
+      else lineB=(lineB+' '+word).trim();
+    }
+    if(!lineB)lineB='';
+    s+=txt((x5+x6)/2,y1+6.5,lineA,2.0,'middle');
+    if(lineB)s+=txt((x5+x6)/2,y1+12.0,lineB,2.0,'middle');
+    if(d.group)s+=txt((x5+x6)/2,y1+17.4,'Група '+d.group,2.0,'middle');
+    s+=txt((x5+x6)/2,y3+3.6,'Матеріал: '+(d.material||'—'),1.8,'middle');
+
+    // Right: literature, mass and scale.
+    const rx=x6;
+    s+=line(rx,y0+10,x7,y0+10,.25);
+    s+=line(rx,y1,x7,y1,.25);
+    s+=line(rx,y3,x7,y3,.25);
+    s+=line(175,y0,175,y3,.25);
+    s+=line(190,y0,190,y3,.25);
+    s+=txt(165,y0+6.2,'Літ.',1.9,'middle');
+    s+=txt(182.5,y0+6.2,'Маса',1.9,'middle');
+    s+=txt(197.5,y0+6.2,'Масштаб',1.8,'middle');
+    s+=txt(165,y1+12.5,d.liter||'У',3.3,'middle');
+    s+=txt(182.5,y1+12.5,d.mass||'—',3.3,'middle');
+    s+=txt(197.5,y1+12.5,d.scale||'1:1',3.0,'middle');
+
+    // Sheet number and total. For a one-sheet document, the current-sheet cell is left blank.
+    s+=line(180,y3,180,y4,.25);
+    s+=txt(167.5,y3+3.55,'Лист: '+(d.sheet||''),1.65,'middle');
+    s+=txt(192.5,y3+3.55,'Листів: '+(d.sheets||'1'),1.65,'middle');
+
+    // Bottom cells: copying mark remains blank; sheet format is identified as A4.
+    s+=line(x6,y4,x6,y5,.25);
+    s+=txt((x5+x6)/2,y4+9.2,'Копіював',2.2,'middle',0,{italic:true});
+    s+=txt((x6+x7)/2,y4+9.2,'Формат А4',2.2,'middle',0,{italic:true});
     return s;
   }
 

diff --git a/index.html b/index.html
@@ -3,7 +3,7 @@
 <head>
   <meta charset="utf-8">
   <meta name="viewport" content="width=device-width, initial-scale=1">
-  <title>КОМПАС Онлайн 2.4 — креслення</title>
+  <title>КОМПАС Онлайн 2.6 — креслення</title>
   <link rel="stylesheet" href="styles.css">
 </head>
 <body>
@@ -287,9 +287,10 @@ R17
       <label class="field-label">Позначення документа<input id="codeField" value="КРЕСЛЕННЯ.001"></label>
       <label class="field-label">Матеріал деталі<input id="materialField" value="Матеріал не зазначено"></label>
       <div class="two-fields"><label class="field-label">Літера<input id="literField" value="У"></label><label class="field-label">Маса<input id="massField" value="—"></label></div>
-      <div class="two-fields"><label class="field-label">Масштаб<input id="scaleField" value="1:1" list="scaleSuggestions"><datalist id="scaleSuggestions"><option value="1:1"><option value="1:2"><option value="1:2.5"><option value="1:4"><option value="1:5"><option value="1:10"><option value="1:20"><option value="1:25"><option value="1:50"><option value="1:100"><option value="2:1"><option value="2.5:1"><option value="4:1"><option value="5:1"><option value="10:1"></datalist></label><label class="field-label">Аркуш<input id="sheetField" value="1"></label></div>
+      <div class="two-fields"><label class="field-label">Масштаб<input id="scaleField" value="1:1" list="scaleSuggestions"><datalist id="scaleSuggestions"><option value="1:1"><option value="1:2"><option value="1:2.5"><option value="1:4"><option value="1:5"><option value="1:10"><option value="1:20"><option value="1:25"><option value="1:50"><option value="1:100"><option value="2:1"><option value="2.5:1"><option value="4:1"><option value="5:1"><option value="10:1"></datalist></label><label class="field-label">Аркуш<input id="sheetField" value="" placeholder="Не заповнюється для одного аркуша"></label></div>
       <label class="field-label">Усього аркушів<input id="sheetsField" value="1"></label>
-      <label class="field-label">Організація<input id="companyField" value="Навчальний кресленик"></label>
+      <label class="field-label">Навчальний заклад<input id="companyField" value="Шосткинський фаховий коледж імені Івана Кожедуба СумДУ"></label>
+      <label class="field-label">Група<input id="groupField" value="КТ-24"></label>
       <div class="panel-heading spaced">ПІДПИСИ</div>
       <label class="field-label">Розробив<input id="developerField" placeholder="Прізвище"></label>
       <label class="field-label">Перевірив<input id="checkerField" placeholder="Прізвище"></label>

diff --git a/README.md b/README.md
@@ -1,3 +1,15 @@
+# КОМПАС Онлайн 2.6 — исправление шаблона лабораторной работы №5
+
+- Шаблон лабораторной №5 перестроен непосредственно в миллиметрах для книжного А4 (210×297 мм).
+- Рамка рабочего поля: 20 мм слева и по 5 мм сверху, справа и снизу.
+- Основная надпись: 185×55 мм в правом нижнем углу.
+- Дополнительная графа обозначения: 70×14 мм вверху слева; обозначение внутри повёрнуто на 180°.
+- В основной надписи обозначение печатается без слова «Позначення:».
+- Для однолистового документа графа «Лист» оставлена пустой, «Листів» — 1.
+- Украинские подписи «Виконав» / «Перевірив», название колледжа и группа вынесены в отдельные редактируемые поля.
+- Шаблон лабораторной №5 принудительно использует книжный А4; остальные шаблоны сохраняют выбор формата.
+- Центральное рабочее поле намеренно оставлено пустым: контур детали добавляется только по исходному эскизу/заданию.
+
 
 ### Обновление 2.5 — положение размерных стрелок и контроль геометрии
 
